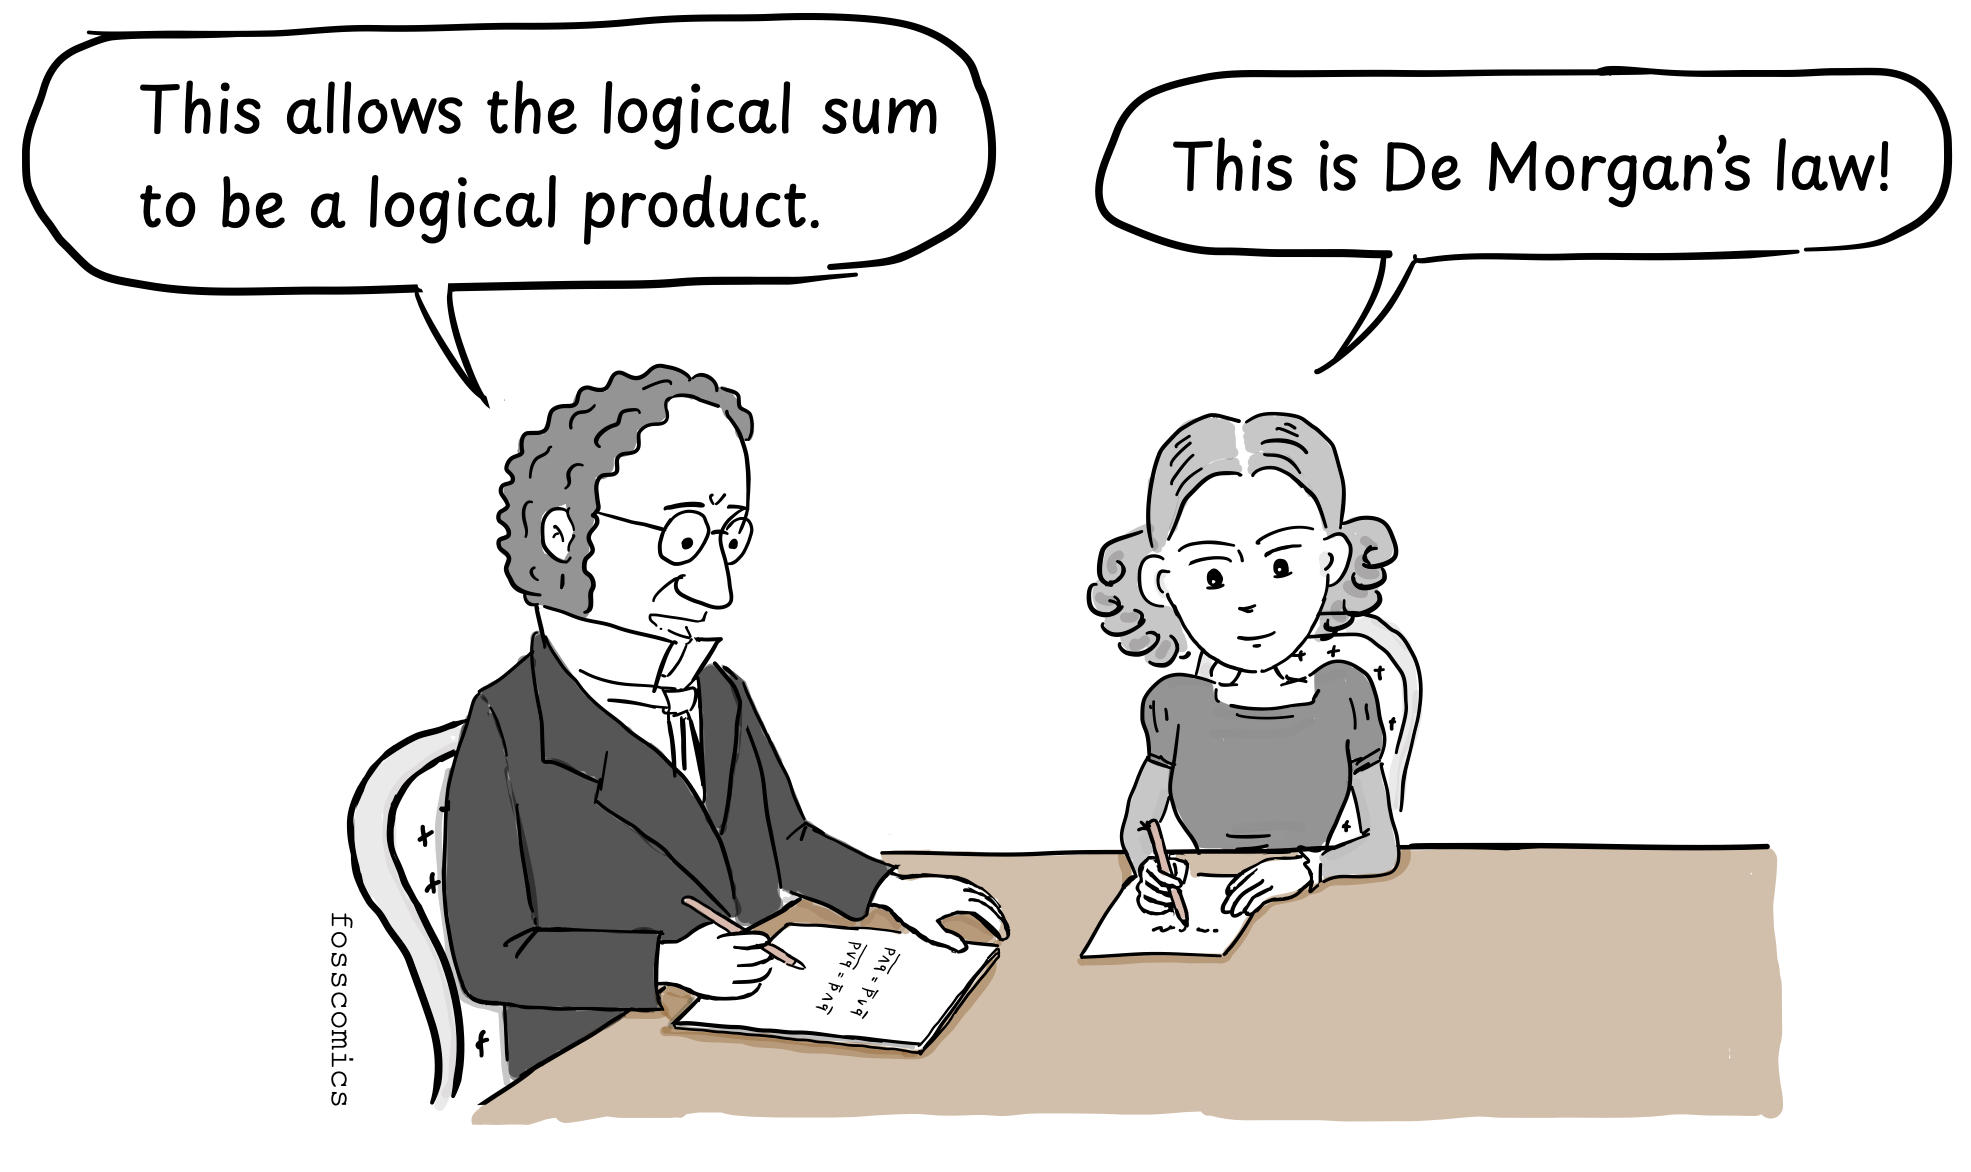
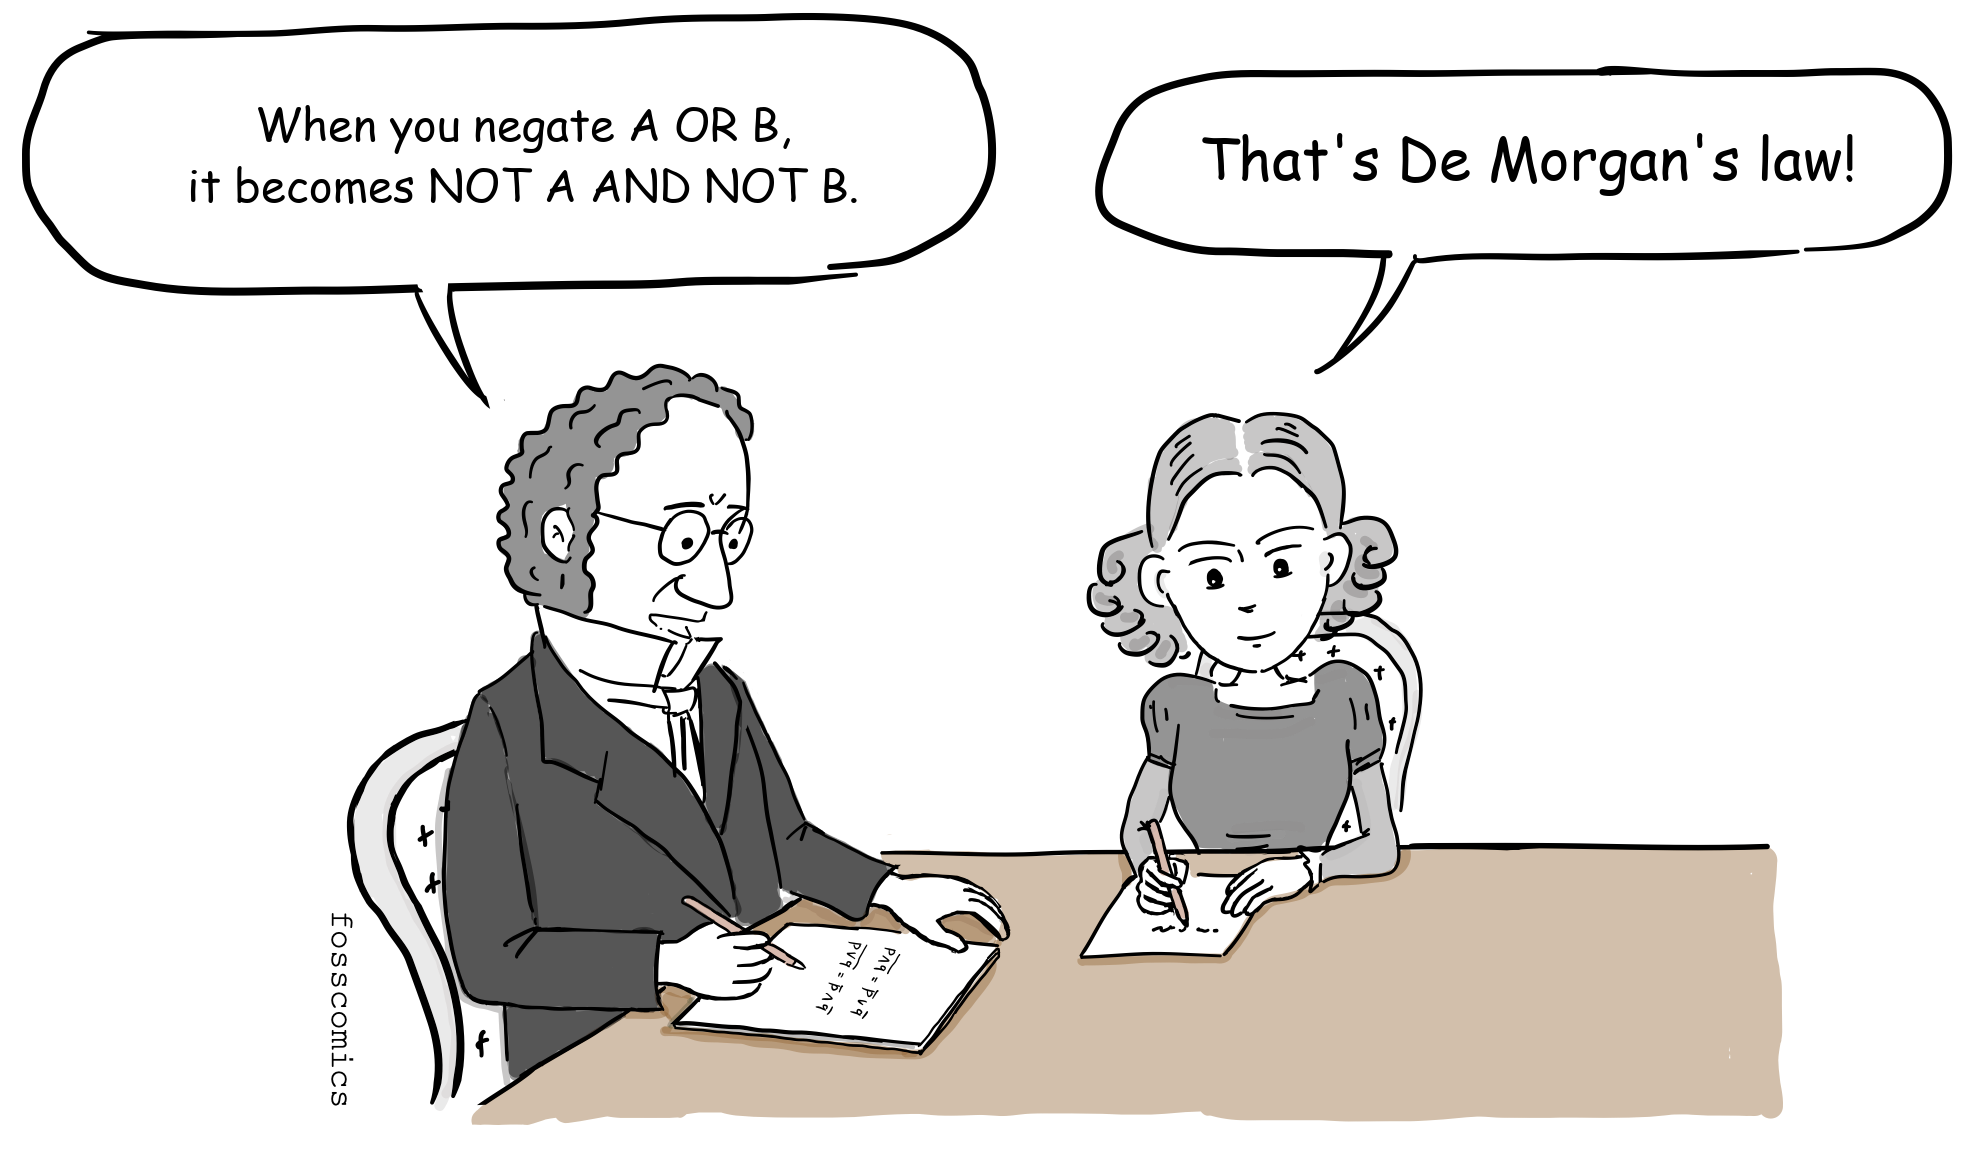
Revise Episode 1 translation and artwork

Changed region(s): [[0.0619, 0.0614, 0.4952, 0.215], [0.588, 0.1229, 0.9594, 0.1843]]

diff --git a/content/posts/1. Charles Babbage and Ada Lovelace/index.md b/content/posts/1. Charles Babbage and Ada Lovelace/index.md
@@ -2,62 +2,62 @@
 title: 1. Charles Babbage and Ada Lovelace
 date: "2018-12-21"
 image: feature.png
-description: In the 19th century, Charles Babbage designed the difference engine, and Ada Lovelace created the first algorithm, shaping the foundation of modern computing and programming concepts.
+description: In the 19th century, Charles Babbage designed pioneering mechanical computers, and Ada Lovelace's notes on the Analytical Engine included an early published computer program and described how a machine could repeat a sequence of operations.
 tags: Charles Babbage,Ada Lovelace
 ---
 
-Human beings have made a number of tools to make math calculations more convenient and accurate. One of these tools, the abacus, was used by several ancient civilizations.
+People have long built tools to make arithmetic easier and more accurate. One of these tools, the abacus, was used by several ancient civilizations.
 
 ![The caveman sees the numbers written on the tree and puts a question mark.](images/1_1.png)
 
-In Korea, the abacus was introduced from China around the 1400s, and it was used by individuals as well as banks until the 1980s. After that, computers replaced it in banks and it is hardly used for personal use anymore.
+The abacus reached Korea from China around the 15th century. Individuals and banks continued to use it until the 1980s, when computers largely replaced it.
 
 ![A girl is using a abacus](images/1_2.png "size:70%")
 
-In the West, in the 17th century, [Pascal](https://en.wikipedia.org/wiki/Pascal%27s_calculator) and Leibniz made mechanical calculators using gears.
+In 17th-century Europe, [Pascal](https://en.wikipedia.org/wiki/Pascal%27s_calculator) and Leibniz built gear-driven mechanical calculators.
 
 ![Leibniz says,"This mechanical calculator is capable of multiplication and division."](images/1_3.png "Gottfried Wilhelm Leibniz(1646-1716) size:70%")
 
 ## Charles Babbage and his difference engine
-In 1822, the British mathematician Charles Babbage designed a difference engine consisting of memories, an arithmetic unit and input/output devices like the computers we use now, but in a mechanical way.
+In 1822, British mathematician Charles Babbage proposed the Difference Engine, a mechanical calculator designed to automatically produce accurate numerical tables, such as logarithmic and trigonometric tables. He later designed the Analytical Engine, a general-purpose mechanical machine with a memory or "store," an arithmetic unit or "mill," punched-card input, and a printer, anticipating several components of modern computers.
 
 ![Charles Babbage and his difference engine](images/1_4.png "size:80%")
 
 
-Ada Lovelace, born in 1815, the daughter of George Gordon Byron, a representative Romantic poet in England, grew up with a single mother because her father had earlier abandoned her family. Since her mother was afraid that her daughter would take after her father, she only allowed Ada to learn mathematics and science instead of literature.
+Ada Lovelace was born in 1815 to the poet George Gordon Byron, better known as Lord Byron, and Anne Isabella Milbanke. Her parents separated shortly after her birth. Concerned that Ada might inherit Byron's temperament, her mother directed her education toward mathematics and science rather than literature.
 
  ![Text image: Ada, with a puzzled expression, says, "Why does my mom only want me to learn mathematics?"](images/1_5.png "size:80%")
 > "Why does my mom only want me to learn mathematics?"
 
-Famous scientists taught Ada at the time, including De Morgan who is famous for De Morgan’s law. As a result, she showed a great talent for mathematics which he recognized.
+Ada studied with prominent mathematicians, including Augustus De Morgan, who recognized her talent.
 
 ![Text image: Ada in learning De Morgan's law from De Morgan"](images/1_6.png "size:80%")
-> "This allows the logical sum to be a logical product." \
-> "This is De Morgan's law!"
+> "When you negate A OR B, it becomes NOT A AND NOT B." \
+> "That's De Morgan's law!"
 
-Ada saw the difference engine created by Charles Babbage by chance when she was seventeen years old.
+At seventeen, Ada met Babbage and later saw him demonstrate the completed portion of his Difference Engine.
 
 ![Text image: "](images/1_7.png "size:90%")
 > "This is the difference engine!" \
-> "Wow, I would like to participate in your research."
+> "I'd love to help with your research."
 
-She created an algorithm to obtain the Bernoulli number for the purpose of describing the analytical engine, which is considered to be the first computer program.
+To help explain the Analytical Engine, she presented an algorithm for calculating Bernoulli numbers in her published notes. It is often described as the first published computer program.
 
 ![Text image: "](images/1_8.png "size:80%")
-> "A good example is needed to explain the difference machine."
+> "I need a good example to explain the Analytical Engine."
 
-At the time, Ada first introduced the concepts of loops, goto, and control statements, which are important concepts used in programming languages, in her algorithms. This is why she is called the world’s first programmer. There is also a programming language called Ada which is named after her.
+Her notes described how the Analytical Engine could repeat a series of operations, an early account of looping. This work is why she is often called the first computer programmer. However, historians debate how much of the Bernoulli-number algorithm originated with Lovelace and how much was developed in collaboration with Babbage. Whatever the precise division of credit, Lovelace's notes remain one of the earliest published examples of programming. In recognition of her pioneering contribution, the programming language Ada was later named after her.
 
 ![Text image: Ada is asking"](images/1_9.png "size:70%")
-> "Loop? Goto? If?"
+> "So the engine can repeat a sequence of operations?"
 
-However, Charles Babbage was not able to complete the difference engine and analytic engine due to technical limitations, so Ada never got to implement her algorithm.
+Babbage completed neither the Difference Engine nor the Analytical Engine during Lovelace's lifetime because of financial, organizational, and technical difficulties. As a result, her program was never run on the proposed machine.
 
 ![Text image: Ada is asking"](images/1_10.png)
-> "When can I run my algorithm on the machine?" \
-> "Well, I’m not sure if it will work.z"
+> "When can I run my program on the machine?" \
+> "I'm not sure it will ever work."
 
-From 1989 to 1991, the Science Museum in London completed the actual differential engine No. 2 using the design left by Charles Babbage, which was surprisingly able to calculate 31 digits. Although not all of her theories have been tested or fully developed, Ada Lovelace’s theory of computer programming became the basis for today’s computer programming.
+In 1991, the Science Museum in London completed the calculating section of a working Difference Engine No. 2 based on Babbage's designs. Its printing mechanism followed in 2002. The engine could calculate results to 31 digits. Lovelace's notes remain an important early account of how a general-purpose computing machine could be programmed.
 
 ## References
 1. https://en.wikipedia.org/wiki/Charles_Babbage
